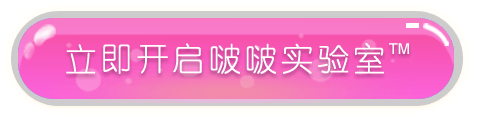
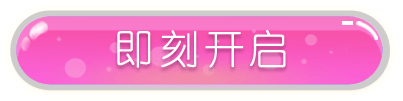
修改首页

diff --git a/css/index.css b/css/index.css
@@ -307,14 +307,16 @@ input::-webkit-input-placeholder, textarea::-webkit-input-placeholder {
 
 #loadingBox .cont .formBox .readed {
 	position: absolute;
-	top: 0;
+	top: -0.1rem;
 	left: 0;
 	width: 50%;
 	height: 0.45rem;
 	color: #ca3867;
 	cursor: pointer;
-	padding: 0 0 0 0.93rem;
+	padding: 0 0 0 0.85rem;
 	opacity: 0;
+	font-size: 0.35rem;
+	font-weight: bold;
 }
 #loadingBox .cont .formBox .privacy {
 	position: absolute;
@@ -329,9 +331,9 @@ input::-webkit-input-placeholder, textarea::-webkit-input-placeholder {
 	position: absolute;
 	bottom: 0rem;
 	left: 50%;
-	width: 4.79rem;
-	height: 1.17rem;
-	margin-left: -2.395rem;
+	width: 4.03rem;
+	height: 1.01rem;
+	margin-left: -2.015rem;
 	background-image: url(../images/indexBox/btn.png);
 }
 
